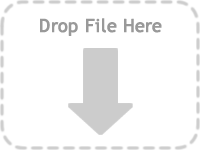
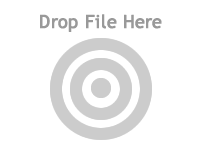
Cleaned up form interface. Can now select a group to post to. Editing works.

diff --git a/views/default/forms/file/upload.php b/views/default/forms/file/upload.php
@@ -9,6 +9,9 @@
  * @link http://www.thinkglobalschool.com/
  * 
  */
+elgg_load_js('elgg.fileextender');
+elgg_load_js('jQuery-File-Upload');
+elgg_load_css('elgg.fileextender');
 
 // once elgg_view stops throwing all sorts of junk into $vars, we can use 
 $title = elgg_extract('title', $vars, '');
@@ -27,15 +30,33 @@ $guid = elgg_extract('guid', $vars, null);
 if ($guid) {
 	$file_label = elgg_echo("file:replace");
 	$submit_label = elgg_echo('save');
+	$submit_class = 'file-editing';
 
 	// Hidden file input
 	$file_hidden = elgg_view('input/hidden', array(
 		'name' => 'file_guid', 
 		'value' => $guid
 	));
+
+	$file = get_entity($guid);
+	$filename = $file->originalfilename;
+	$filesize = file_calculate_size($file->size());
+	$filereplace = elgg_echo('file-extender:replace');
+
+	$drop_zone = <<<HTML
+		<div id='file-dropzone-div'>
+			<span class='file-drop-info'>
+				<span class='file-name'>$filename</span>
+				<span class='file-size'>$filesize</span>
+				<spac class='file-replace'>$filereplace</span>
+			</span>
+		</div>
+HTML;
 } else {
 	$file_label = elgg_echo("file:file");
 	$submit_label = elgg_echo('upload');
+	$hidden_class = 'file-extender-hidden-form';
+	$drop_zone = "<div id='file-dropzone-div' class='file-dropzone file-dropzone-background'></div>";
 }
 
 $file_input = elgg_view('input/file', array(
@@ -73,49 +94,52 @@ $container_hidden = elgg_view('input/hidden', array(
 	'value' => $container_guid
 ));
 
-// Get logged in user groups
-$groups = elgg_get_entities_from_relationship_count(array(
-	'type' => 'group',
-	'relationship' => 'member',
-	'relationship_guid' => elgg_get_logged_in_user_guid(),
-	'inverse_relationship' => FALSE,
-	'full_view' => FALSE,
-));
 
-if (count($groups)) {
-	$groups_array = array('' => elgg_echo('file-extender:none'));
-
-	// Add each group to group array for dropdown
-	foreach ($groups as $g) {
-		$groups_array[$g->guid] = $g->name;
-	}
-	
-	$group_label = elgg_echo('file-extender:group');
-
-	$group_select = elgg_view('input/dropdown', array(
-		'name' => 'group_guid',
-		// 'value' => $group->getURL(), @TODO show current group if viewing a group?
-		'options_values' => $groups_array,
+if (!elgg_instanceof(elgg_get_page_owner_entity(), 'group') && !$guid) {
+	// Get logged in user groups
+	$groups = elgg_get_entities_from_relationship_count(array(
+		'type' => 'group',
+		'relationship' => 'member',
+		'relationship_guid' => elgg_get_logged_in_user_guid(),
+		'inverse_relationship' => FALSE,
+		'full_view' => FALSE,
 	));
+
+	if (count($groups)) {
+		$groups_array = array('' => elgg_echo('file-extender:none'));
+
+		// Add each group to group array for dropdown
+		foreach ($groups as $g) {
+			$groups_array[$g->guid] = $g->name;
+		}
 	
-	$group_input = <<<HTML
-		<div>
-			<label>$group_label</label>
-			$group_select
-		</div><br />
+		$group_label = elgg_echo('file-extender:group');
+
+		$group_select = elgg_view('input/dropdown', array(
+			'name' => 'group_guid',
+			// 'value' => $group->getURL(), @TODO show current group if viewing a group?
+			'options_values' => $groups_array,
+		));
+	
+		$group_input = <<<HTML
+			<div>
+				<label>$group_label</label>
+				$group_select
+			</div><br />
 HTML;
+	}
 }
 
 $submit_input = elgg_view('input/submit', array(
 	'value' => $submit_label,
 	'id' => 'submit-file',
+	'class' => "elgg-button elgg-button-submit $submit_class",
 ));
 
 $content = <<<HTML
-	<div class='file-dropzone file-dropzone-background'>
-	</div>
+	$drop_zone
 	$file_input
-	<div class='file-extender-hidden-form'>
+	<div class='$hidden_class'>
 		<div>
 			<label>$title_label</label><br />
 			$title_input

diff --git a/views/default/js/fileextender/extender.php b/views/default/js/fileextender/extender.php
@@ -20,7 +20,7 @@ elgg.fileextender.init = function() {
 	// Init fileupload
 	$('.file-drag-upload').fileupload({
         dataType: 'json',
-		dropZone: $('.file-dropzone'),
+		dropZone: $('#file-dropzone-div'),
 		fileInput: $('input.file-drag-upload'),
 		drop: function (e, data) {
 			// Remove drag class
@@ -44,20 +44,30 @@ elgg.fileextender.init = function() {
 
 			// Set file data on the input, to be used with click event later
 			$('.file-drag-upload').data('data', data);
+
+			// Remove dropzone classes and display info
+			var $div = $('#file-dropzone-div');
+			$div.removeClass('file-dropzone file-dropzone-background');
+
+			var $drop_name = $(document.createElement('span'));
+			$drop_name.addClass('file-name');
+			$drop_name.html(file.name);
+
+			var $drop_size = $(document.createElement('span'));
+			$drop_size.addClass('file-size');
+			$drop_size.html(elgg.fileextender.calculateSize(file.size));
+
+			var $drop_info = $(document.createElement('span'));
+			$drop_info.addClass('file-drop-info');
+			$drop_info.append($drop_name);
+			$drop_info.append($drop_size);
+
+			$div.html($drop_info);
 		},
 		dragover: function (e, data) {
 			// Add fancy dragover class
 			$(e.originalEvent.target).addClass('file-dropzone-drag');
-		},
-        done: function (e, data) {
-			if (data.result.output.system_messages) {
-				elgg.register_error(data.result.output.system_messages.error);
-				elgg.system_message(data.result.output.system_messages.success);
-			}
-			if (data.result.output.status >= 0) {
-				//
-			}
-        }
+		}
     });
 }
 
@@ -83,6 +93,14 @@ elgg.fileextender.calculateSize = function(size) {
 
 // Click handler for the submit button 
 elgg.fileextender.submitClick = function(event) {
+	var data = $('.file-drag-upload').data('data');
+
+	// If we're editing a file, check to see if a new file has been added..
+	// data will equal 'undefined' if not.. in that case we're just updating
+	// the files title/desc/tags/etc.. go ahead with a normal submit
+	if ($(this).hasClass('file-editing') && data == undefined) {
+		return true;
+	}
 
 	// Store the button
 	var $button = $(this);

diff --git a/actions/file/upload.php b/actions/file/upload.php
@@ -16,11 +16,26 @@ $title = get_input("title");
 $desc = get_input("description");
 $access_id = (int) get_input("access_id");
 $container_guid = (int) get_input('container_guid', 0);
+$group_guid = (int) get_input('group_guid', NULL);
 $guid = (int) get_input('file_guid');
 $tags = get_input("tags");
 
 if ($container_guid == 0) {
 	$container_guid = elgg_get_logged_in_user_guid();
+}
+
+// Check to make sure we're not already uploading to a group, and that we have a selected group
+if (!elgg_instanceof(get_entity($container_guid), 'group') && $group_guid) {
+	$group = get_entity($group_guid);
+
+	// Make sure we have a group, and that the user can add items to it
+	if (elgg_instanceof($group, 'group') && $group->canWriteToContainer()) {
+		$container_guid = $group_guid; // We were passed a group guid
+	} else {
+		// Invalid group or no permissions
+		register_error(elgg_echo('file-extender:grouperror'));
+		forward(REFERER);
+	}
 }
 
 elgg_make_sticky_form('file');
@@ -174,10 +189,16 @@ if ($new_file) {
 
 	$container = get_entity($container_guid);
 	if (elgg_instanceof($container, 'group')) {
-		echo elgg_get_site_url() . "file/group/$container->guid/all";
+		// Check XHR
+		if (elgg_is_xhr()) {
+			echo elgg_get_site_url() . "file/group/$container->guid/all";
+		}
 		forward("file/group/$container->guid/all");
 	} else {
-		echo elgg_get_site_url() . "file/owner/$container->username";
+		// Check XHR
+		if (elgg_is_xhr()) {
+			echo elgg_get_site_url() . "file/owner/$container->username";
+		}
 		forward("file/owner/$container->username");
 	}
 
@@ -187,6 +208,10 @@ if ($new_file) {
 	} else {
 		register_error(elgg_echo("file:uploadfailed"));
 	}
-	echo $file->getURL();
+
+	// Check XHR
+	if (elgg_is_xhr()) {
+		echo $file->getURL();
+	}
 	forward($file->getURL());
 }	

diff --git a/start.php b/start.php
@@ -20,19 +20,16 @@ function file_extender_init() {
 	$extender_js = elgg_get_simplecache_url('js', 'fileextender/extender');
 	elgg_register_simplecache_view('js/fileextender/extender');
 	elgg_register_js('elgg.fileextender', $extender_js);
-	elgg_load_js('elgg.fileextender');
 	
 	// Register JS File Upload
 	$j_js = elgg_get_simplecache_url('js', 'jquery_file_upload');
 	elgg_register_simplecache_view('js/jquery_file_upload');
 	elgg_register_js('jQuery-File-Upload', $j_js);
-	elgg_load_js('jQuery-File-Upload');
 
 	// Register CSS
 	$extender_css = elgg_get_simplecache_url('css', 'fileextender/css');
 	elgg_register_simplecache_view('js/fileextender/css');
 	elgg_register_css('elgg.fileextender', $extender_css);
-	elgg_load_css('elgg.fileextender');
 
 	// Extend file composer view
 	elgg_extend_view('file/composer', 'file-extender/init', 1);
@@ -43,4 +40,18 @@ function file_extender_init() {
 	// Register our own action
 	$action_path = elgg_get_plugins_path() . 'file-extender/actions/file';
 	elgg_register_action("file/upload", "$action_path/upload.php");
+}
+
+// Calculate file size for display
+function file_calculate_size($size) {
+    if (!is_numeric($size)) {
+        return '';
+    }
+    if ($size >= 1000000000) {
+        return number_format(($size / 1000000000), 2) . ' GB';
+    }
+    if ($size >= 1000000) {
+        return number_format(($size / 1000000), 2) . ' MB';
+    }
+    return number_format(($size / 1000), 2) . ' KB';
 }

diff --git a/views/default/css/fileextender/css.php b/views/default/css/fileextender/css.php
@@ -39,3 +39,31 @@
 .file-extender-hidden-form {
 	display: none;
 }
+
+.file-drop-info {
+	-webkit-border-radius: 6px;
+	-moz-border-radius: 6px;
+	border-radius: 6px;
+	border: 1px solid #CCCCCC;
+	display: block;
+	margin-top: 1px;
+	padding: 10px;
+}
+
+.file-drop-info .file-size {
+	color: #666666;
+	font-size: 1.2em;
+	margin-left: 20px;
+}
+
+.file-drop-info .file-name {
+	color: #333333;
+	font-size: 1.2em;
+	font-weight: bold;
+}
+
+.file-drop-info .file-replace {
+	font-size: 1.2em;
+	color: #AAAAAA;
+	float: right;
+}

diff --git a/languages/en.php b/languages/en.php
@@ -14,6 +14,8 @@ $english = array(
 	'file-extender:group' => 'Post to group',
 	'file-extender:none' => 'None',
 	'file-extender:toomanyfiles' => 'You can only upload one file at a time',
+	'file-extender:grouperror' => 'You cannot post files to this group',
+	'file-extender:replace' => '(Drop new file to replace)',
 );
 
 add_translation('en',$english);
